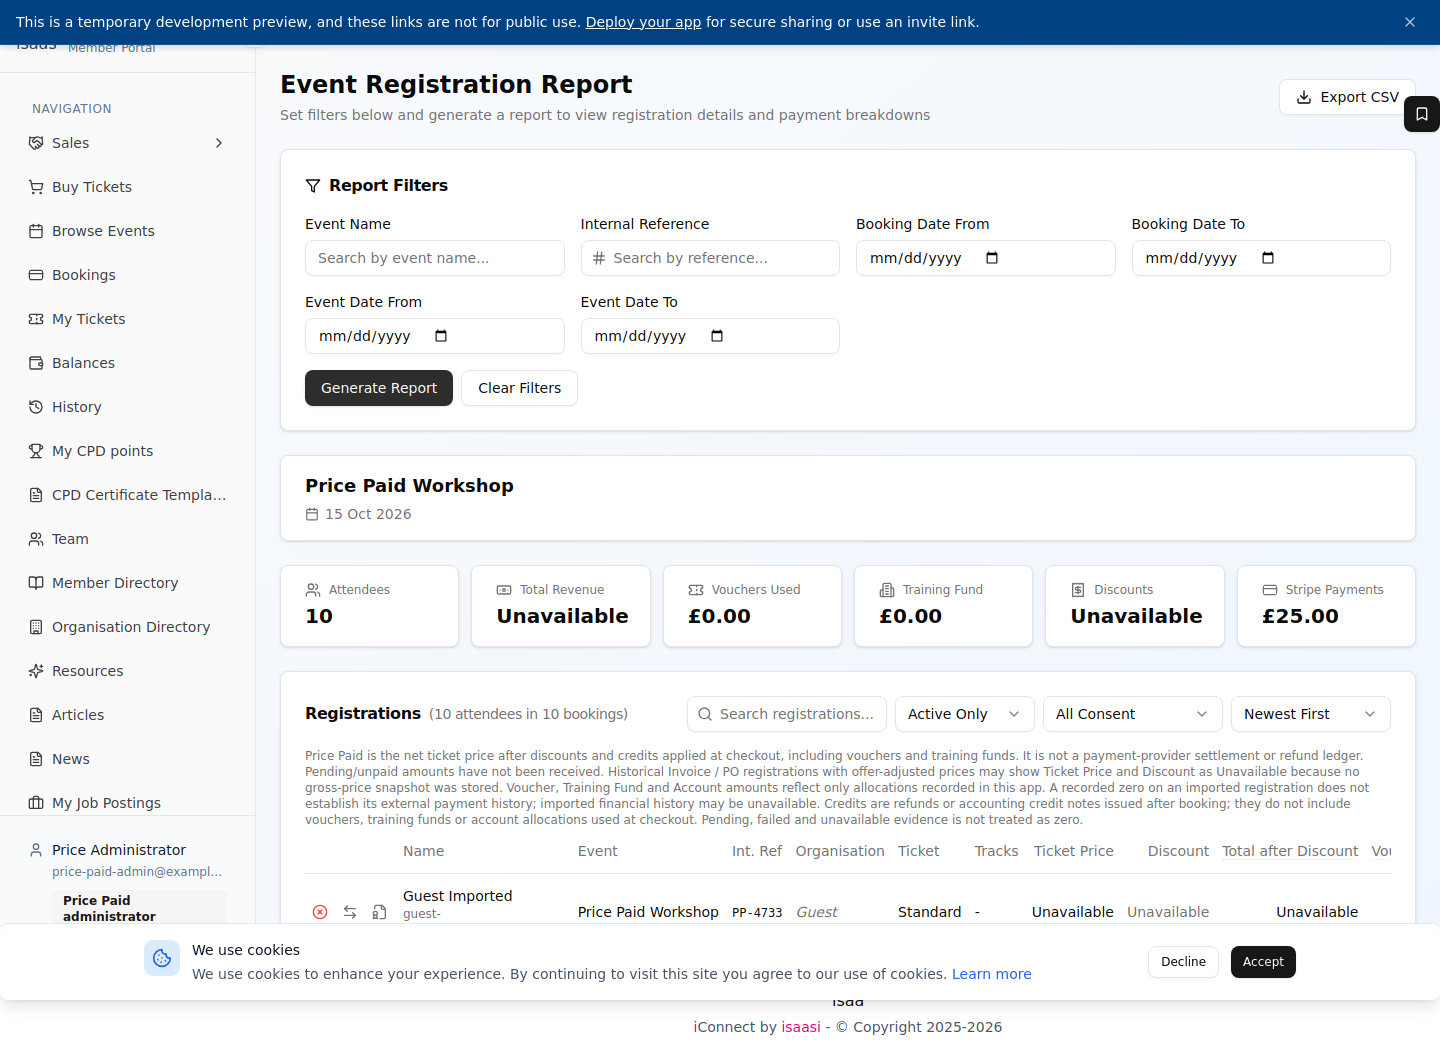
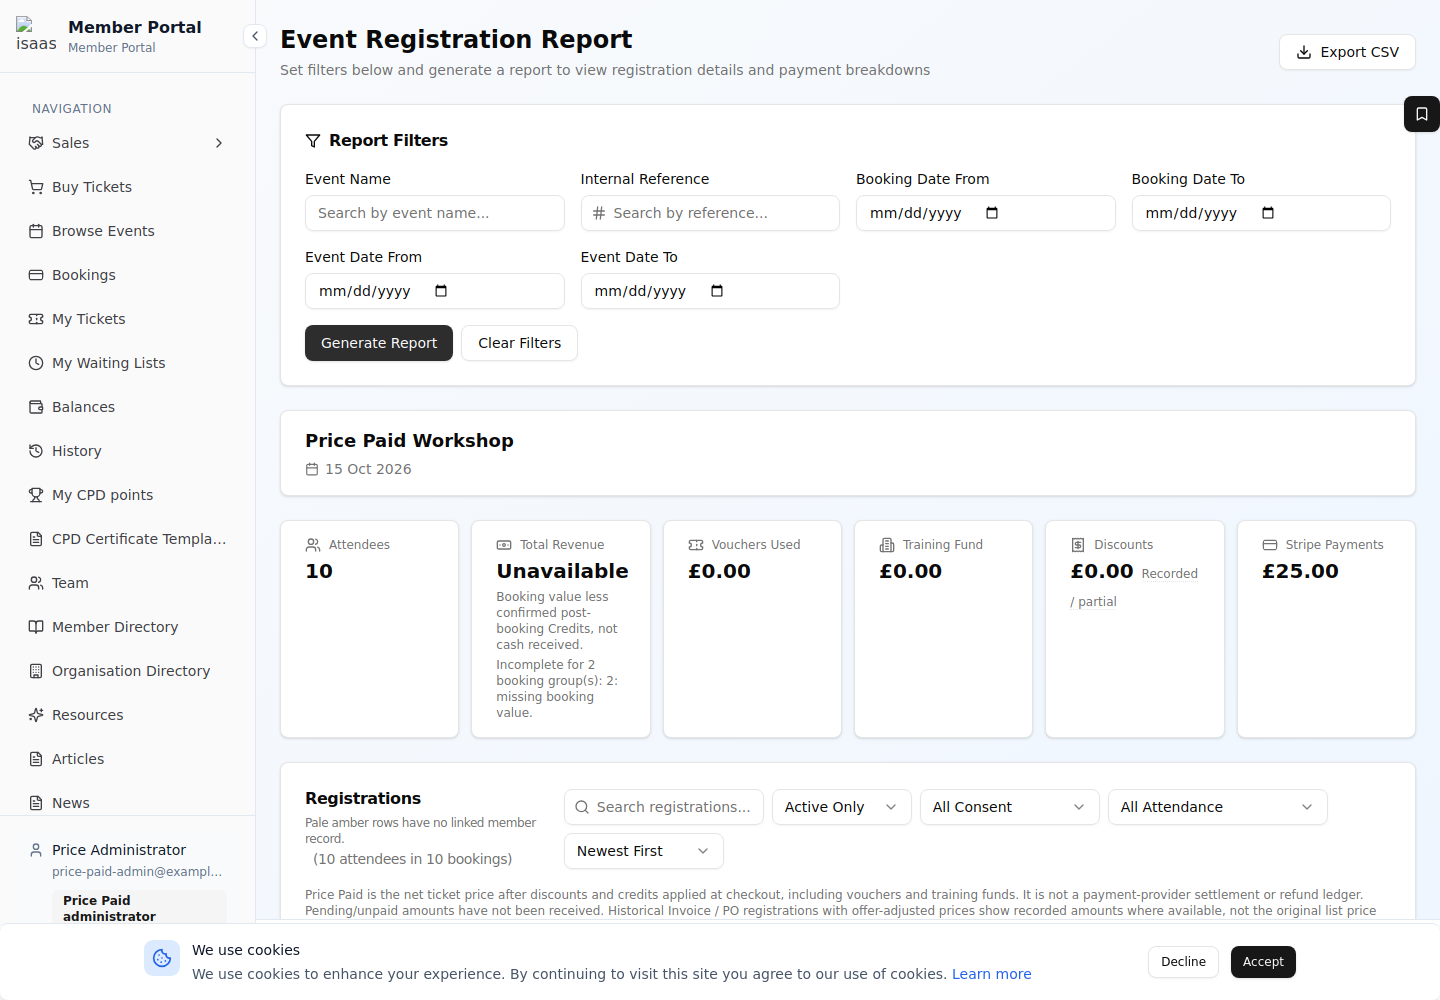
Anchor registration report headings and identity columns with responsive two-axis scrolling and browser coverage
Replit-Task-Id: 0e5d3153-41db-46a6-b348-cd46f8cdae9c
Replit-Merge-Attempt: MergeTask:0e5d3153-41db-46a6-b348-cd46f8cdae9c:1:44e5177b

diff --git a/client/src/pages/EventRegistrationReport.jsx b/client/src/pages/EventRegistrationReport.jsx
@@ -1,4 +1,5 @@
 import AdminEventWaitingList from "@/components/events/AdminEventWaitingList";
+import "./EventRegistrationReport.css";
 import { useState, useMemo, useEffect, useRef, useCallback } from "react";
 import { Link } from "react-router-dom";
 import GuestRegistrationMemberDialog from "@/components/events/GuestRegistrationMemberDialog";
@@ -2193,12 +2194,12 @@ export default function EventRegistrationReport() {
                     {' '}Voucher, Training Fund and Account amounts reflect only allocations recorded in this app. A recorded zero on an imported registration does not establish its external payment history; imported financial history may be unavailable.
                     {' '}Credits are successful post-booking refunds or accounting credit notes recorded in iConnect, not vouchers, training funds or account allocations used at checkout. £0.00 means No credits recorded in iConnect. Historical references without amounts show Amount not recorded. Pending and failed actions are not applied credits. Unknown amounts or allocations prevent a complete total. Reloading reads local records only.
                   </p>
-                  <div className="overflow-x-auto">
+                  <div className="registration-report-scroll" role="region" aria-label="Registrations table" tabIndex={0}>
                     <table className="w-full text-sm">
                       <thead>
                         <tr className="border-b text-left">
-                          <th scope="col" className="pb-3 pr-1 font-medium text-muted-foreground whitespace-nowrap w-[68px]">Actions</th>
-                          <th className="pb-3 pr-3 font-medium text-muted-foreground whitespace-nowrap">Name</th>
+                          <th scope="col" data-pinned="actions" className="pb-3 pr-1 font-medium text-muted-foreground whitespace-nowrap">Actions</th>
+                          <th scope="col" data-pinned="name" className="pb-3 pr-3 font-medium text-muted-foreground whitespace-nowrap">Name</th>
                           <th className="pb-3 pr-3 font-medium text-muted-foreground whitespace-nowrap">Event</th>
                           <th className="pb-3 pr-3 font-medium text-muted-foreground whitespace-nowrap">Int. Ref</th>
                           <th className="pb-3 pr-3 font-medium text-muted-foreground whitespace-nowrap">Organisation</th>
@@ -2255,10 +2256,10 @@ export default function EventRegistrationReport() {
 
                             return (
                               <tr key={attendee.id} className={`border-b last:border-0 ${registrationMemberHighlight(attendee)}`} data-testid={`row-booking-${attendee.id}`}>
-                                <td className="py-3 pr-1">
+                                <td data-pinned="actions" className="py-3 pr-1">
                                   {renderActionIcons(attendee, group)}
                                 </td>
-                                <td className="py-3 pr-3">
+                                <td data-pinned="name" className="py-3 pr-3">
                                   <div className="font-medium whitespace-nowrap">
                                     {`${attendee.attendee_first_name || ''} ${attendee.attendee_last_name || ''}`.trim() || 'Unknown'}
                                   </div>
@@ -2450,8 +2451,8 @@ export default function EventRegistrationReport() {
                                 style={{ borderTopWidth: '2px' }}
                                 data-testid={`row-booker-header-${headerKey}`}
                               >
-                                <td className="py-2 pr-1"></td>
-                                <td className="py-2 pr-3">
+                                <td data-pinned="actions" className="py-2 pr-1"></td>
+                                <td data-pinned="name" className="py-2 pr-3">
                                   <div className="flex items-center gap-2 flex-wrap">
                                     <Badge variant="secondary" className="text-[10px] px-1.5 py-0">
                                       {group.attendeeCount}
@@ -2504,10 +2505,10 @@ export default function EventRegistrationReport() {
                                 style={isFirstRowInGroup ? { borderTopWidth: '2px' } : undefined}
                                 data-testid={`row-booking-${attendee.id}`}
                               >
-                                <td className="py-2 pr-1">
+                                <td data-pinned="actions" className="py-2 pr-1">
                                   {renderActionIcons(attendee, group)}
                                 </td>
-                                <td className="py-2 pr-3">
+                                <td data-pinned="name" className="py-2 pr-3">
                                   <div className="flex items-center gap-2 flex-wrap">
                                     {isFirst && !showBookerHeader && (
                                       <Badge variant="secondary" className="text-[10px] px-1.5 py-0">

diff --git a/client/src/pages/EventRegistrationReport.css b/client/src/pages/EventRegistrationReport.css
@@ -1,0 +1,90 @@
+.registration-report-scroll {
+  --report-actions-width: 76px;
+  --report-name-width: clamp(120px, 18vw, 240px);
+  overflow: auto;
+  max-height: 65vh;
+  max-height: 65dvh;
+  isolation: isolate;
+}
+
+.registration-report-scroll:focus-visible {
+  outline: 2px solid hsl(var(--ring));
+  outline-offset: 2px;
+}
+
+/* Separate borders stay attached to sticky cells in both scroll directions. */
+.registration-report-scroll table {
+  border-collapse: separate;
+  border-spacing: 0;
+}
+
+.registration-report-scroll th,
+.registration-report-scroll td {
+  border-bottom: 1px solid hsl(var(--border));
+}
+
+.registration-report-scroll tr[style*="border-top-width"] > td {
+  border-top: 2px solid hsl(var(--border));
+}
+
+.registration-report-scroll thead th {
+  position: sticky;
+  top: 0;
+  z-index: 3;
+  background: hsl(var(--card));
+  padding-top: 12px;
+}
+
+/* Explicit roles, not cell positions: group financial cells use rowSpan. */
+.registration-report-scroll [data-pinned] {
+  position: sticky;
+  z-index: 2;
+  background: hsl(var(--card));
+  box-sizing: border-box;
+}
+
+.registration-report-scroll [data-pinned="actions"] {
+  left: 0;
+  width: var(--report-actions-width);
+  min-width: var(--report-actions-width);
+  max-width: var(--report-actions-width);
+}
+
+.registration-report-scroll [data-pinned="actions"] > div {
+  flex-wrap: wrap;
+}
+
+.registration-report-scroll [data-pinned="name"] {
+  left: var(--report-actions-width);
+  width: var(--report-name-width);
+  min-width: var(--report-name-width);
+  max-width: var(--report-name-width);
+  overflow-wrap: anywhere;
+  box-shadow: 1px 0 hsl(var(--border));
+}
+
+.registration-report-scroll [data-pinned="name"] * {
+  white-space: normal;
+  min-width: 0;
+}
+
+/* Composite translucent row tints onto an opaque card to prevent bleed-through. */
+.registration-report-scroll tr.bg-amber-50\/60 [data-pinned] {
+  background: linear-gradient(rgb(255 251 235 / .6), rgb(255 251 235 / .6)), hsl(var(--card));
+}
+
+.dark .registration-report-scroll tr.dark\:bg-amber-950\/20 [data-pinned] {
+  background: linear-gradient(rgb(69 26 3 / .2), rgb(69 26 3 / .2)), hsl(var(--card));
+}
+
+.registration-report-scroll tr.bg-muted\/30 [data-pinned] {
+  background: linear-gradient(hsl(var(--muted) / .3), hsl(var(--muted) / .3)), hsl(var(--card));
+}
+
+.registration-report-scroll thead [data-pinned] {
+  z-index: 4;
+}
+
+.registration-report-scroll tfoot td {
+  border-top: 2px solid hsl(var(--border));
+}
